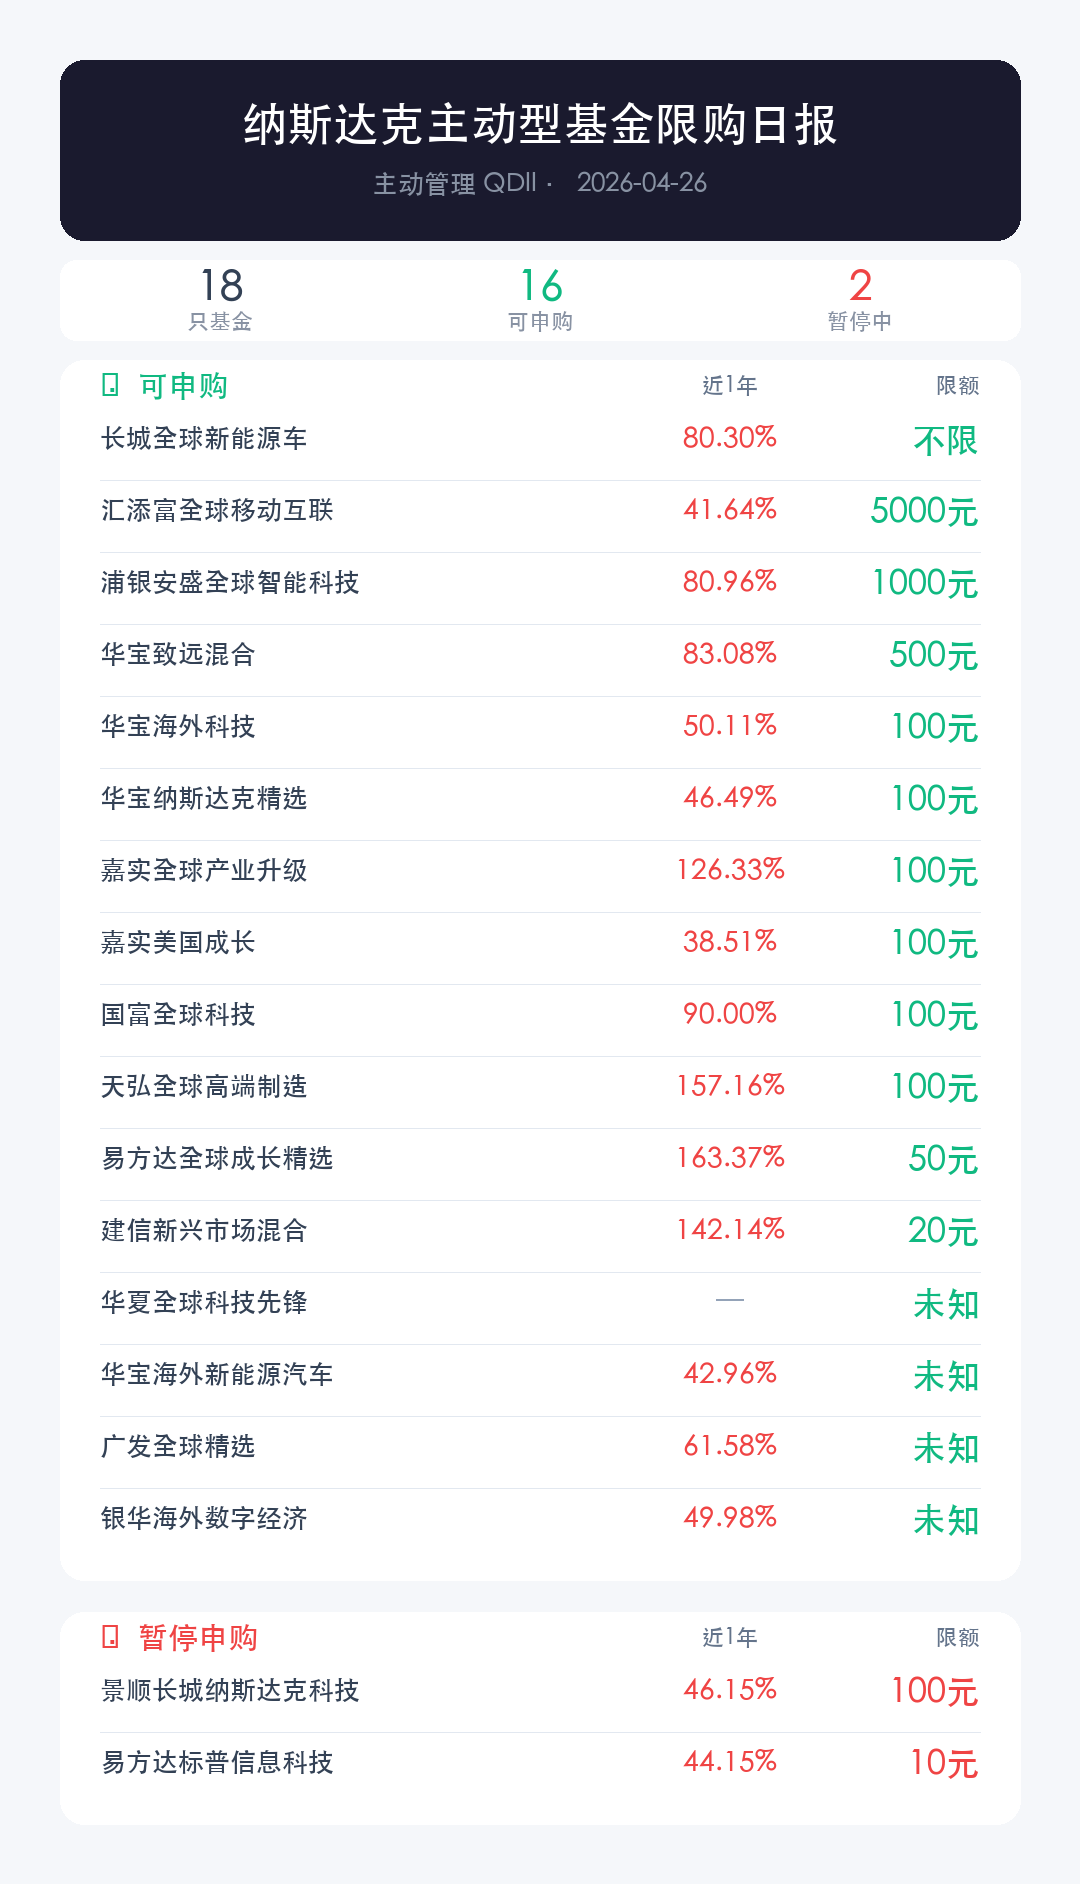
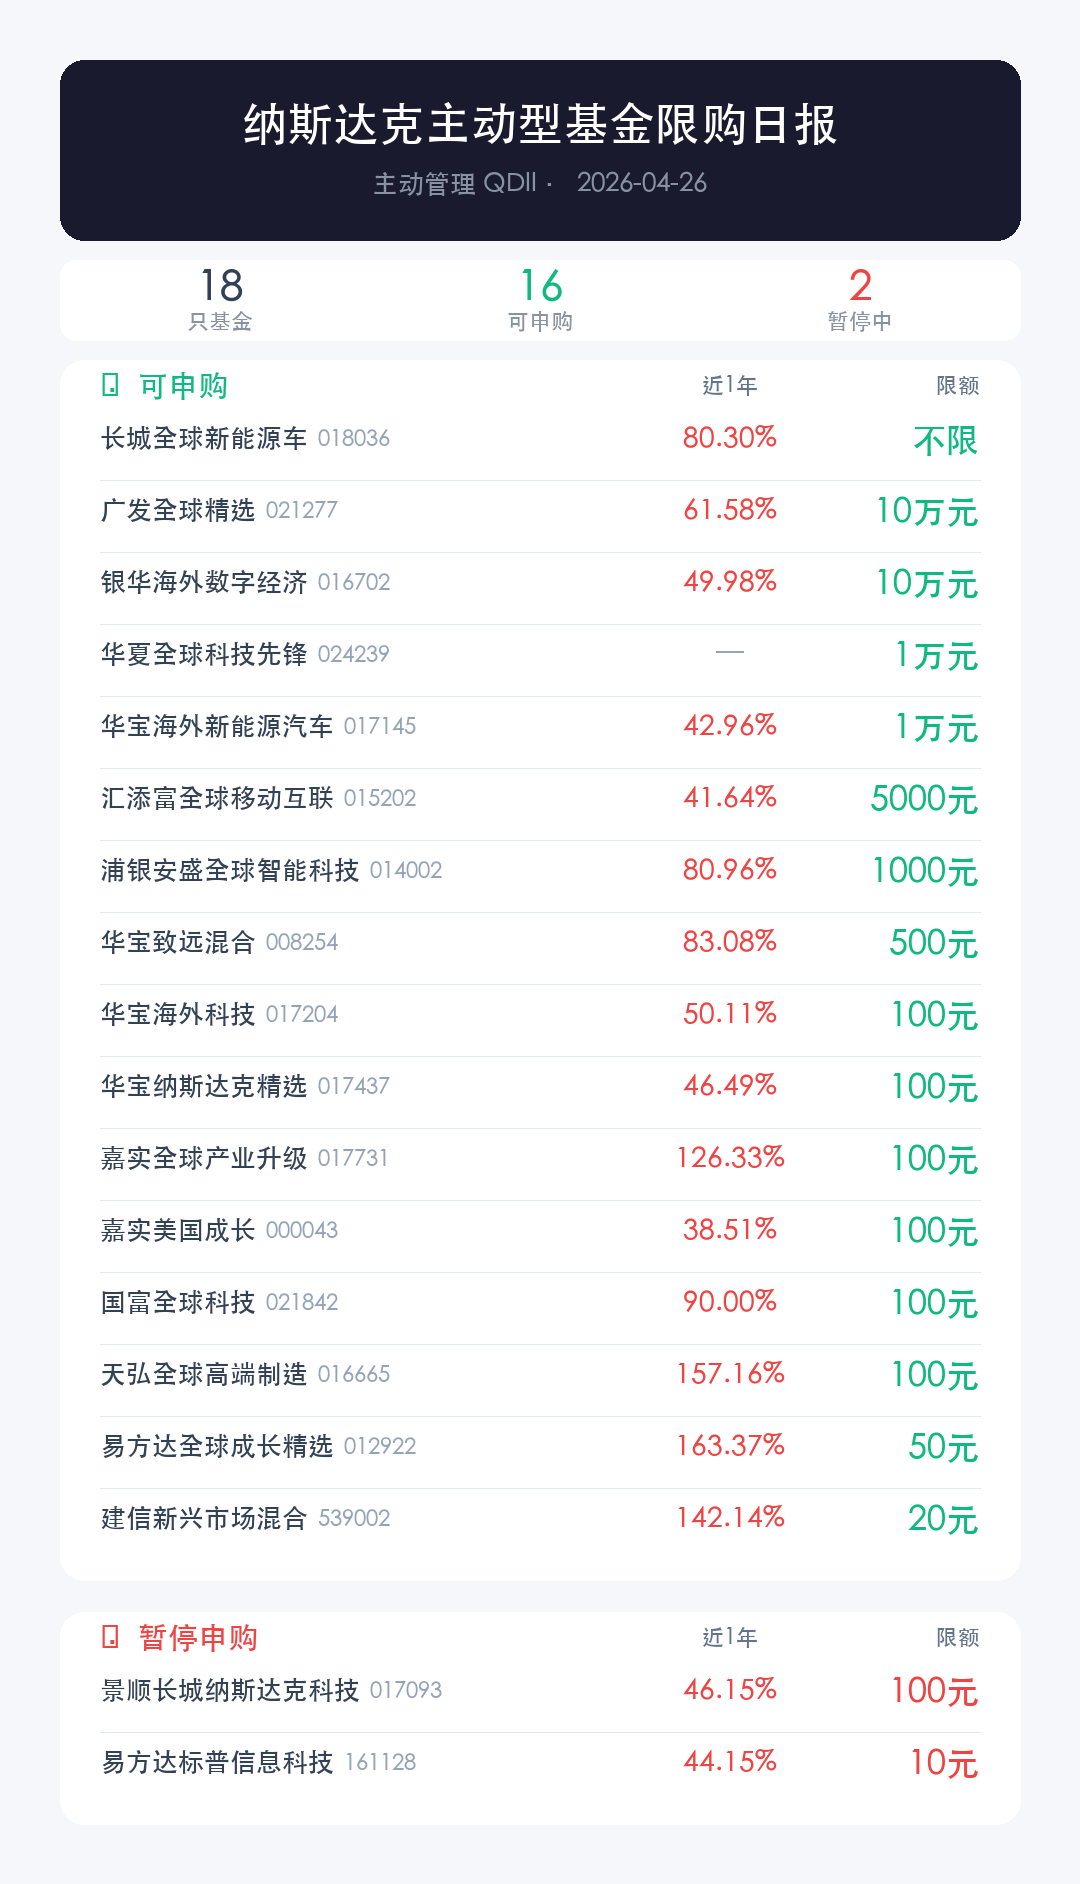
fix: 卡片显示基金代码，修复万元限额解析
- 名称旁边显示基金代码（灰色小字）
- 修复万元单位限额解析：10.00万元、1.00万元
- 广发全球精选C: 10万元、华夏全球科技先锋C: 1万元
- 银华海外数字经济C: 10万元、华宝海外新能源汽车C: 1万元
- 消除所有'未知'限额，无法解析时标注原因

diff --git a/fund_monitor/image.py b/fund_monitor/image.py
@@ -108,16 +108,27 @@ def _display_name(full_name: str) -> str:
 
 
 def _limit_val(s: str) -> float:
+    """解析限额为数值（单位：元），用于排序"""
     if "不限" in (s or ""):
         return float("inf")
     if "暂停" in (s or ""):
         return -1
+    m = re.search(r"([\d,.]+)\s*万", s or "")
+    if m:
+        return float(m.group(1).replace(",", "")) * 10000
     m = re.search(r"([\d,.]+)", s or "")
     return float(m.group(1).replace(",", "")) if m else -2
 
 
 def _fmt_limit(s: str) -> str:
-    m = re.search(r"([\d,.]+)", s or "")
+    """格式化限额显示"""
+    # 万元单位
+    m = re.search(r"([\d,.]+)\s*万元", s or "")
+    if m:
+        v = float(m.group(1).replace(",", ""))
+        return f"{int(v)}万元" if v == int(v) else f"{v}万元"
+    # 元单位
+    m = re.search(r"([\d,.]+)\s*元", s or "")
     if m:
         v = float(m.group(1).replace(",", ""))
         return f"{int(v)}元" if v == int(v) else f"{v}元"
@@ -232,11 +243,15 @@ def generate(results: list[dict], output_path: str,
 
     def _draw_row(d, ry, r, is_open):
         nm = r.get("display") or r.get("name", "")
+        code = r.get("code", "")
         lim = _fmt_limit(r.get("purchase_limit", ""))
         ret = r.get("return_1y", "—") or "—"
 
-        # 基金名称（左侧）
+        # 基金名称
         d.text((IL, ry + 16), nm, fill=TEXT, font=fn)
+        # 基金代码（紧跟名称后面）
+        nb = d.textbbox((0, 0), nm, font=fn)
+        d.text((IL + nb[2] - nb[0] + 10, ry + 20), code, fill=MUTED, font=fc)
 
         # 收益率（居中对齐到列）
         rc = RED if ret != "—" and not ret.startswith("-") else (GREEN if ret.startswith("-") else MUTED)

diff --git a/fund_monitor/scraper.py b/fund_monitor/scraper.py
@@ -76,8 +76,11 @@ def _parse_page(html: str) -> Optional[dict]:
 
     # 具体限额
     for pattern in [
+        r"单日累计购买上限([\d,.]+万)元",
         r"单日累计购买上限([\d,.]+)元",
+        r"购买上限([\d,.]+万)元",
         r"购买上限([\d,.]+)元",
+        r"限大额.*?上限.*?([\d,.]+万)\s*元",
         r"限大额.*?上限.*?([\d,.]+)\s*元",
         r"限大额.*?\((.*?元)\)",
         r"单日.*?限额.*?([\d,.]+)\s*元",
@@ -87,6 +90,10 @@ def _parse_page(html: str) -> Optional[dict]:
             amount = m.group(1).strip()
             info["purchase_limit"] = amount if "元" in amount else f"{amount}元"
             break
+
+    # 状态是限大额但没解析到具体金额
+    if info.get("purchase_status") == "限大额" and "purchase_limit" not in info:
+        info["purchase_limit"] = "限大额(金额未知)"
 
     if info.get("purchase_status") or info.get("name"):
         return info
